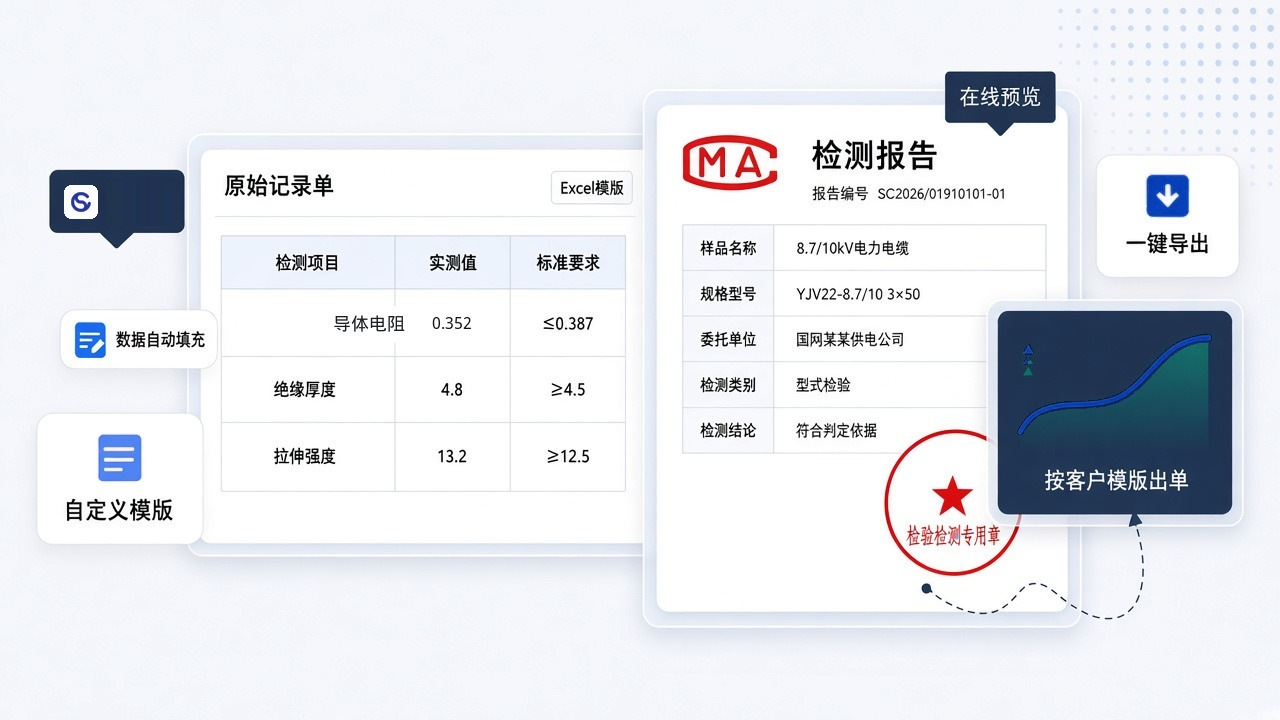
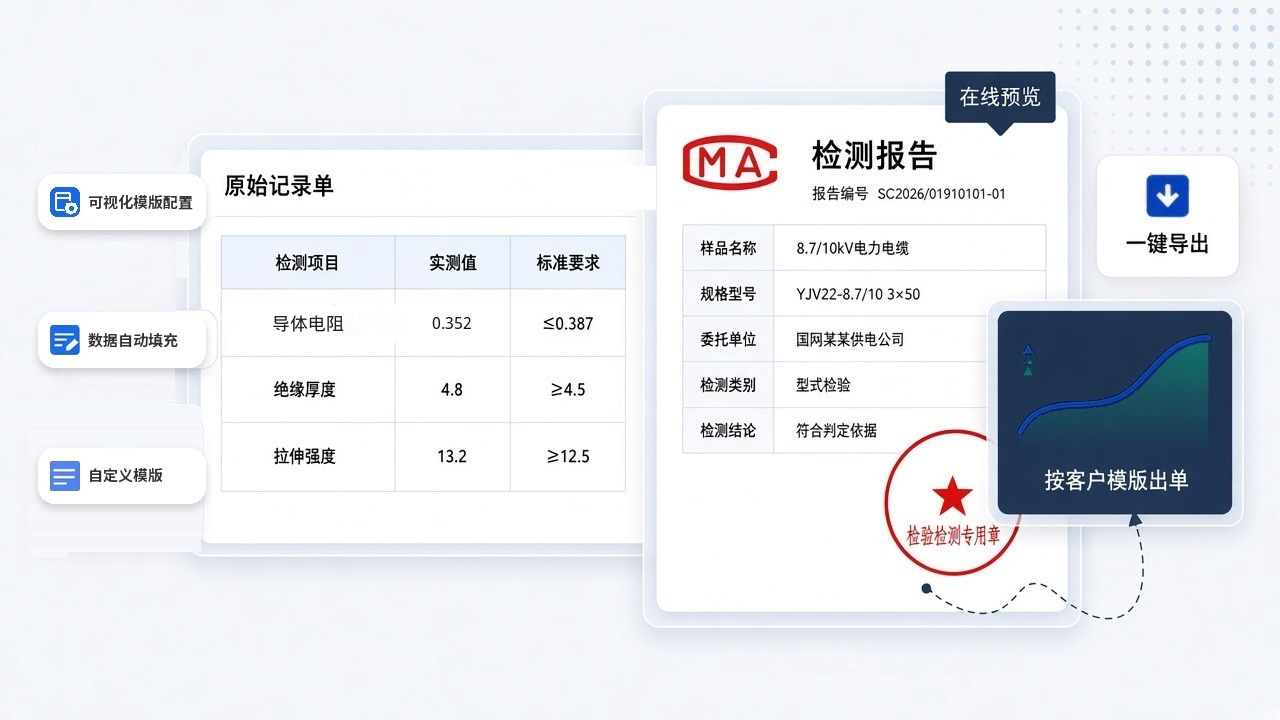
fix: 优势3配图改成三个对齐的模版胶囊

diff --git a/shucan-lims-brochure.html b/shucan-lims-brochure.html
@@ -381,7 +381,7 @@
             </ul>
           </div>
           <div class="visual">
-            <img class="illu" src="assets/brochure/14-template.jpg?v=frame" alt="原始记录单按模版自动填入导体电阻、绝缘厚度和拉伸强度，并生成电力电缆检测报告" />
+            <img class="illu" src="assets/brochure/14-template.jpg?v=caps" alt="左侧三个胶囊：可视化模版配置、数据自动填充、自定义模版。原始记录单填入导体电阻、绝缘厚度和拉伸强度，并生成电力电缆检测报告" />
           </div>
         </article>
         <article class="adv" id="adv-trace">
